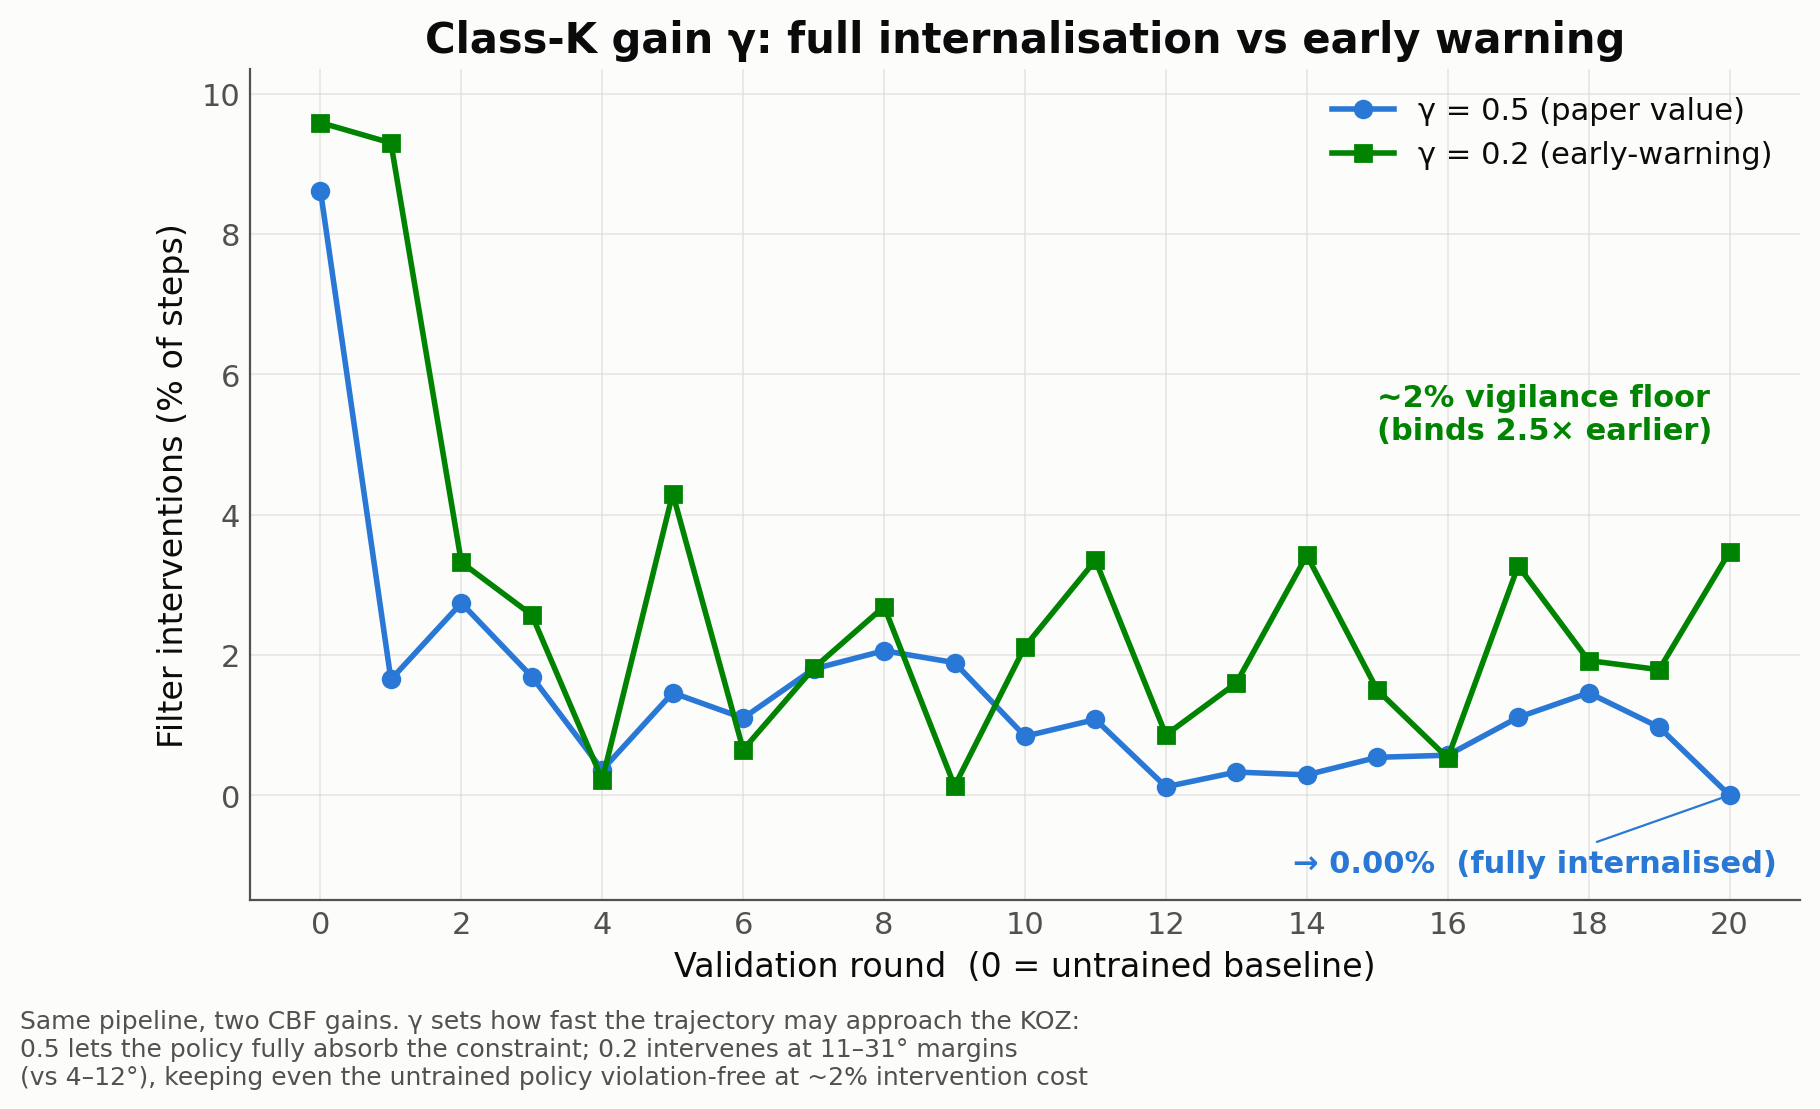
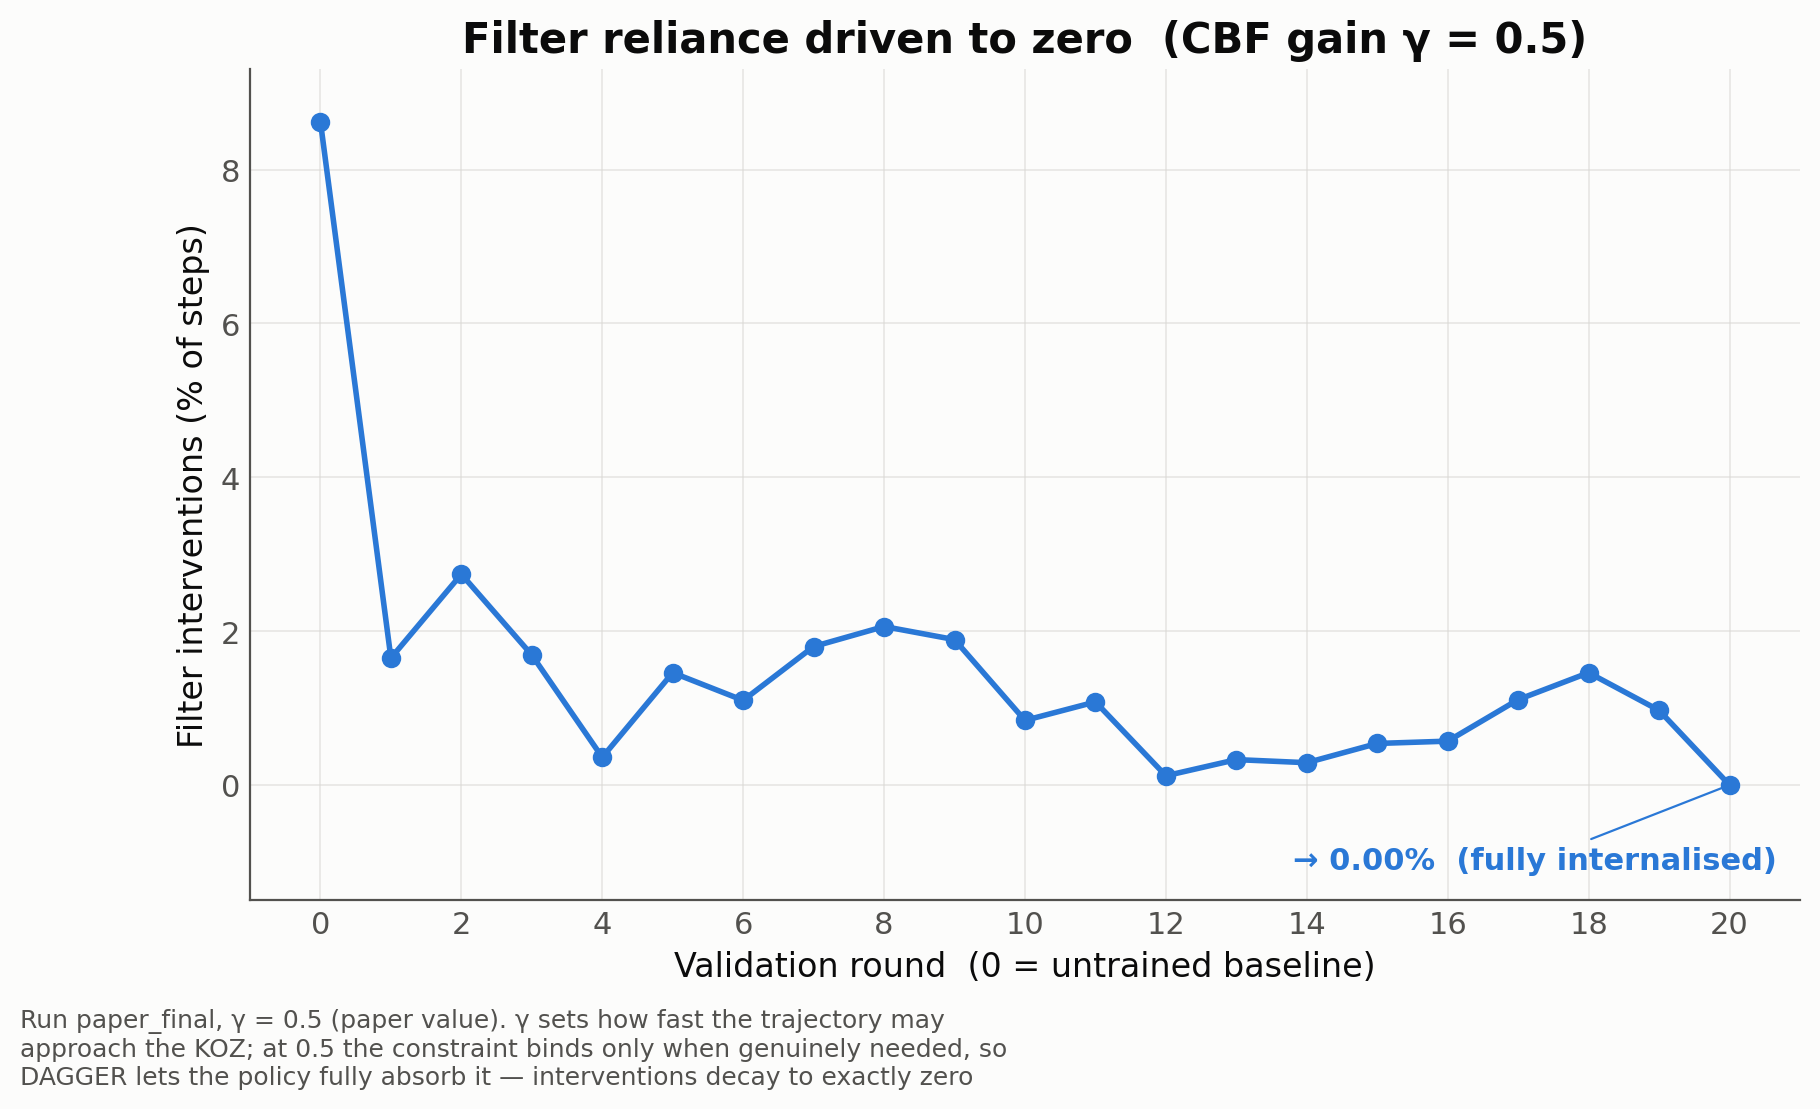
presentation slides

diff --git a/scripts/make_presentation_charts.py b/scripts/make_presentation_charts.py
@@ -155,6 +155,9 @@ def fig2():
     run = "paper_final"
     koz = load(run, "dagger_eval_unfiltered/task_0/koz_violations")
     worst = load(run, "dagger_eval_unfiltered/task_0/min_theta_margin_worst")
+    # Drop round 20: its bar is a single tail episode (1 of 40) that dominates
+    # the y-scale without changing the story; rounds 0-19 carry the trend.
+    koz, worst = koz[:-1], worst[:-1]
     x = rounds_axis(len(koz))
 
     fig, (ax1, ax2) = plt.subplots(2, 1, figsize=(10, 6.4), sharex=True,
@@ -166,12 +169,9 @@ def fig2():
     ax1.set_title("The raw network itself becomes safe")
     ax1.annotate(f"untrained: {koz[0]:.0f}", (x[0], koz[0]),
                  xytext=(x[0] + 0.6, koz[0] * 1.02), fontsize=11, color=INK_2)
-    ax1.annotate("rounds 18–19:\n0.7 / 0.8", (x[-3], koz[-3]),
-                 xytext=(x[-6], koz[0] * 0.45), fontsize=11, color=INK,
+    ax1.annotate("rounds 18–19:\n0.7 / 0.8", (x[-2], koz[-2]),
+                 xytext=(x[-5], koz[0] * 0.45), fontsize=11, color=INK,
                  fontweight="bold",
-                 arrowprops=dict(arrowstyle="-", color=INK_2, lw=0.8))
-    ax1.annotate("single tail episode\n(1 of 40)", (x[-1], koz[-1]),
-                 xytext=(x[-1] - 3.4, koz[-1] + 9), fontsize=9, color=INK_2,
                  arrowprops=dict(arrowstyle="-", color=INK_2, lw=0.8))
 
     ax2.plot(x, worst, "-o", color=SERIES_1, lw=2, ms=6, zorder=3)
@@ -275,39 +275,31 @@ def fig4():
 
 
 # ══════════════════════════════════════════════════════════════════════════════
-# Fig 5 — γ ablation: internalisation vs early warning (both runs, same measure)
+# Fig 5 — filter reliance fully internalised (γ = 0.5, paper value)
 # ══════════════════════════════════════════════════════════════════════════════
 
 def fig5():
-    r05 = load("paper_final",  "dagger_eval_filtered/task_0/filter_fraction") * 100
-    r02 = load("paper_final2", "dagger_eval_filtered/task_0/filter_fraction") * 100
-    x05, x02 = rounds_axis(len(r05)), rounds_axis(len(r02))
+    r05 = load("paper_final", "dagger_eval_filtered/task_0/filter_fraction") * 100
+    x05 = rounds_axis(len(r05))
 
     fig, ax = plt.subplots(figsize=(10, 5.4))
-    ax.plot(x05, r05, "-o", color=SERIES_1, lw=2, ms=6, zorder=3,
-            label="γ = 0.5 (paper value)")
-    ax.plot(x02, r02, "-s", color=SERIES_2, lw=2, ms=6, zorder=3,
-            label="γ = 0.2 (early-warning)")
+    ax.plot(x05, r05, "-o", color=SERIES_1, lw=2, ms=6, zorder=3)
 
-    ax.set_ylim(-1.5, max(r05.max(), r02.max()) * 1.08)
+    ax.set_ylim(-1.5, r05.max() * 1.08)
     ax.annotate("→ 0.00%  (fully internalised)", (x05[-1], r05[-1]),
                 xytext=(x05[-1] - 6.2, -1.1), fontsize=11,
                 color=SERIES_1, fontweight="bold",
                 arrowprops=dict(arrowstyle="-", color=SERIES_1, lw=0.8))
-    ax.annotate("~2% vigilance floor\n(binds 2.5× earlier)", (x02[-1], r02[-1]),
-                xytext=(x02[-1] - 5.0, r02[-1] + 1.6), fontsize=11,
-                color=SERIES_2, fontweight="bold")
 
     ax.set_ylabel("Filter interventions (% of steps)")
     ax.set_xlabel("Validation round  (0 = untrained baseline)")
-    ax.set_title("Class-K gain γ: full internalisation vs early warning")
-    ax.legend(loc="upper right")
+    ax.set_title("Filter reliance driven to zero  (CBF gain γ = 0.5)")
     style_axis(ax)
     ax.set_xticks(x05[::2])
     fig.text(0.01, -0.06,
-             "Same pipeline, two CBF gains. γ sets how fast the trajectory may approach the KOZ:\n"
-             "0.5 lets the policy fully absorb the constraint; 0.2 intervenes at 11–31° margins\n"
-             "(vs 4–12°), keeping even the untrained policy violation-free at ~2% intervention cost",
+             "Run paper_final, γ = 0.5 (paper value). γ sets how fast the trajectory may\n"
+             "approach the KOZ; at 0.5 the constraint binds only when genuinely needed, so\n"
+             "DAGGER lets the policy fully absorb it — interventions decay to exactly zero",
              fontsize=9, color=INK_2)
     save(fig, "05_gamma_ablation.png")
 

diff --git a/presentation_slides/README.md b/presentation_slides/README.md
@@ -9,11 +9,11 @@ Regenerate anytime: `python scripts/make_presentation_charts.py`
 | 02 | koz_violations_decline | The raw network itself becomes safe | paper_final | violations/ep 39 → **0.7–0.8** (rounds 18–19); worst margins −19° → −3° |
 | 03 | deployment_safety | With the filter: zero violations, even untrained | paper_final2 (γ=0.2) | **0 violations in 210 filtered episodes**, success rate 100% at all rounds |
 | 04 | task_performance | Safety costs no task performance | paper_final | attitude error 125° → **1°**; reward −914 → **+601** |
-| 05 | gamma_ablation | γ trade-off: internalisation vs early warning | paper_final vs paper_final2 | 0.5 → 0.00% endpoint; 0.2 → ~2% floor, binds 2.5× earlier |
+| 05 | gamma_ablation | Filter reliance driven to zero at the paper's γ | paper_final (γ=0.5) | interventions 8.6% → **0.00%** at round 20 |
 | 06 | supplementary_full_timeline | Full training arc (phases, margins, rewards) | paper_final | filter ON from step 5000; DAGGER rounds 1–20 |
 
 Talking-point notes
-- Fig 02: the round-20 bar (15.9) is a single tail episode of 40 (annotated); quote rounds 18–19 and say so.
+- Fig 02: shows rounds 0–19. Round 20 is omitted: its average (15.9) came from a single tail episode of 40 that dominated the y-scale; mention this if asked why the axis stops at 19.
 - Fig 03: same policy evaluated with and without the QP filter at every round — the difference is attributable to the filter (success-rate metric).
-- Fig 05: γ is the paper's class-K design knob (Sec. III-A). Both runs share the pipeline, scenario, seeds and normalisation (frozen norms from baseline_27).
+- Fig 05: γ is the paper's class-K design knob (Sec. III-A); at 0.5 the constraint binds only when genuinely needed, so DAGGER can absorb it completely. (A γ=0.2 comparison run, paper_final2, exists if the early-warning trade-off comes up in questions: perfect safety even untrained, but a ~2% intervention floor.)
 - Expert reference: episode reward 179–5110 (median 1205), final attitude error ≤0.3°, zero KOZ violations in training.